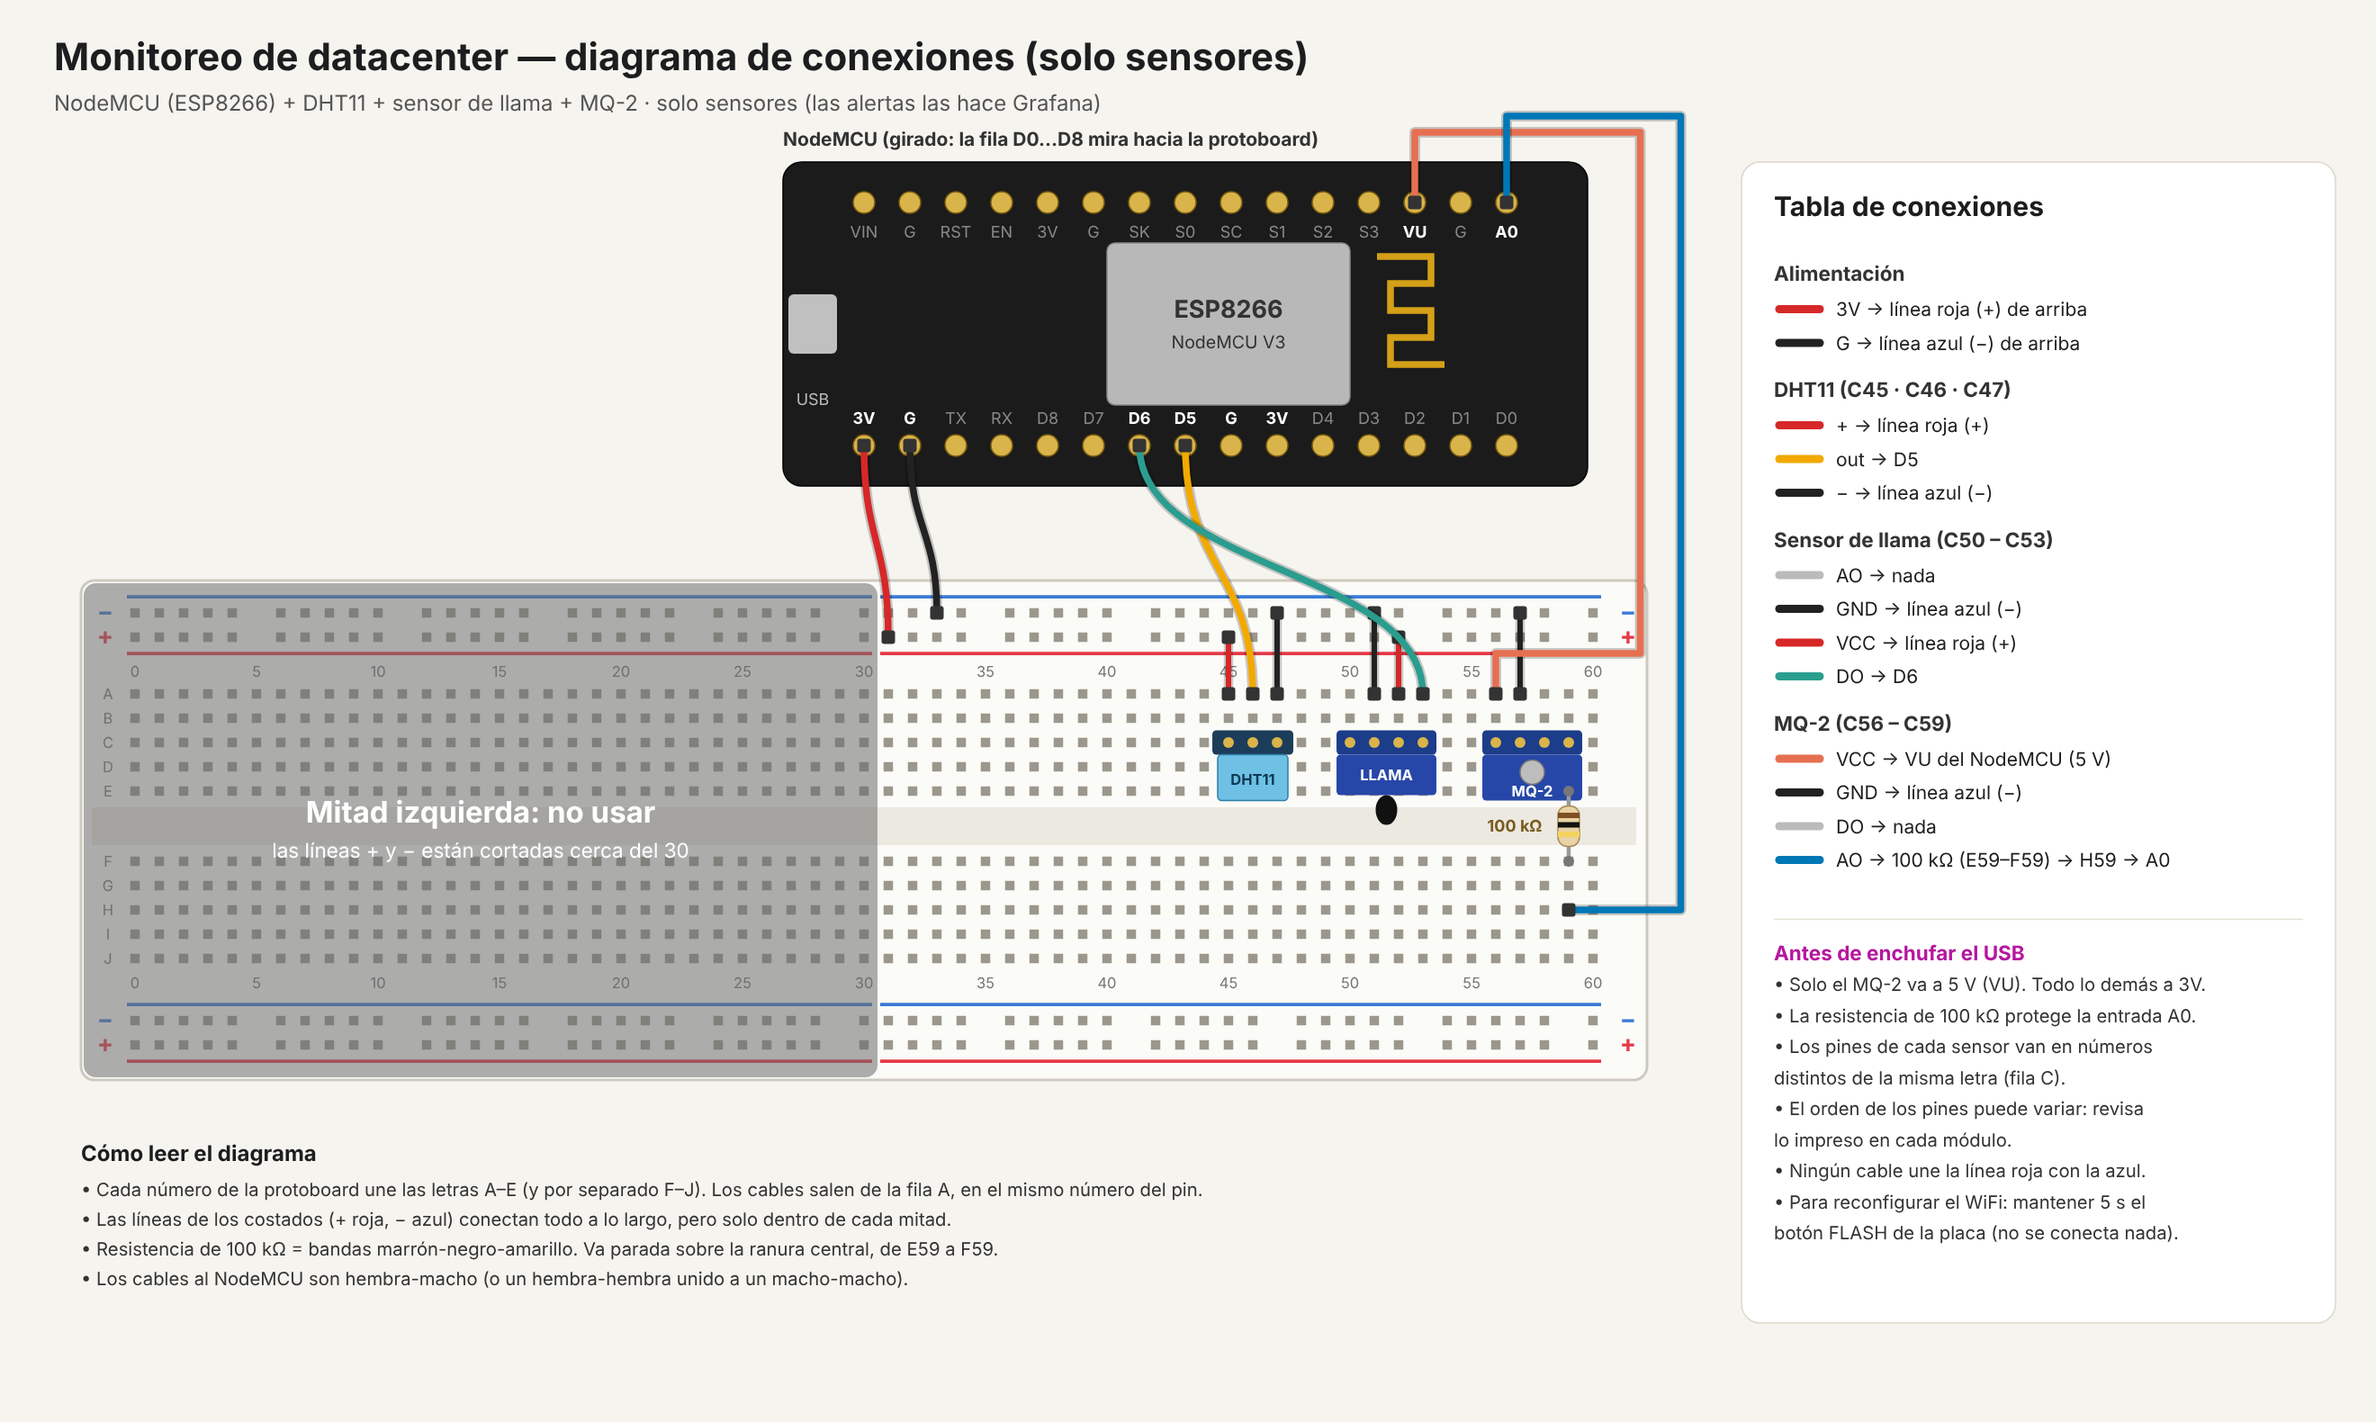
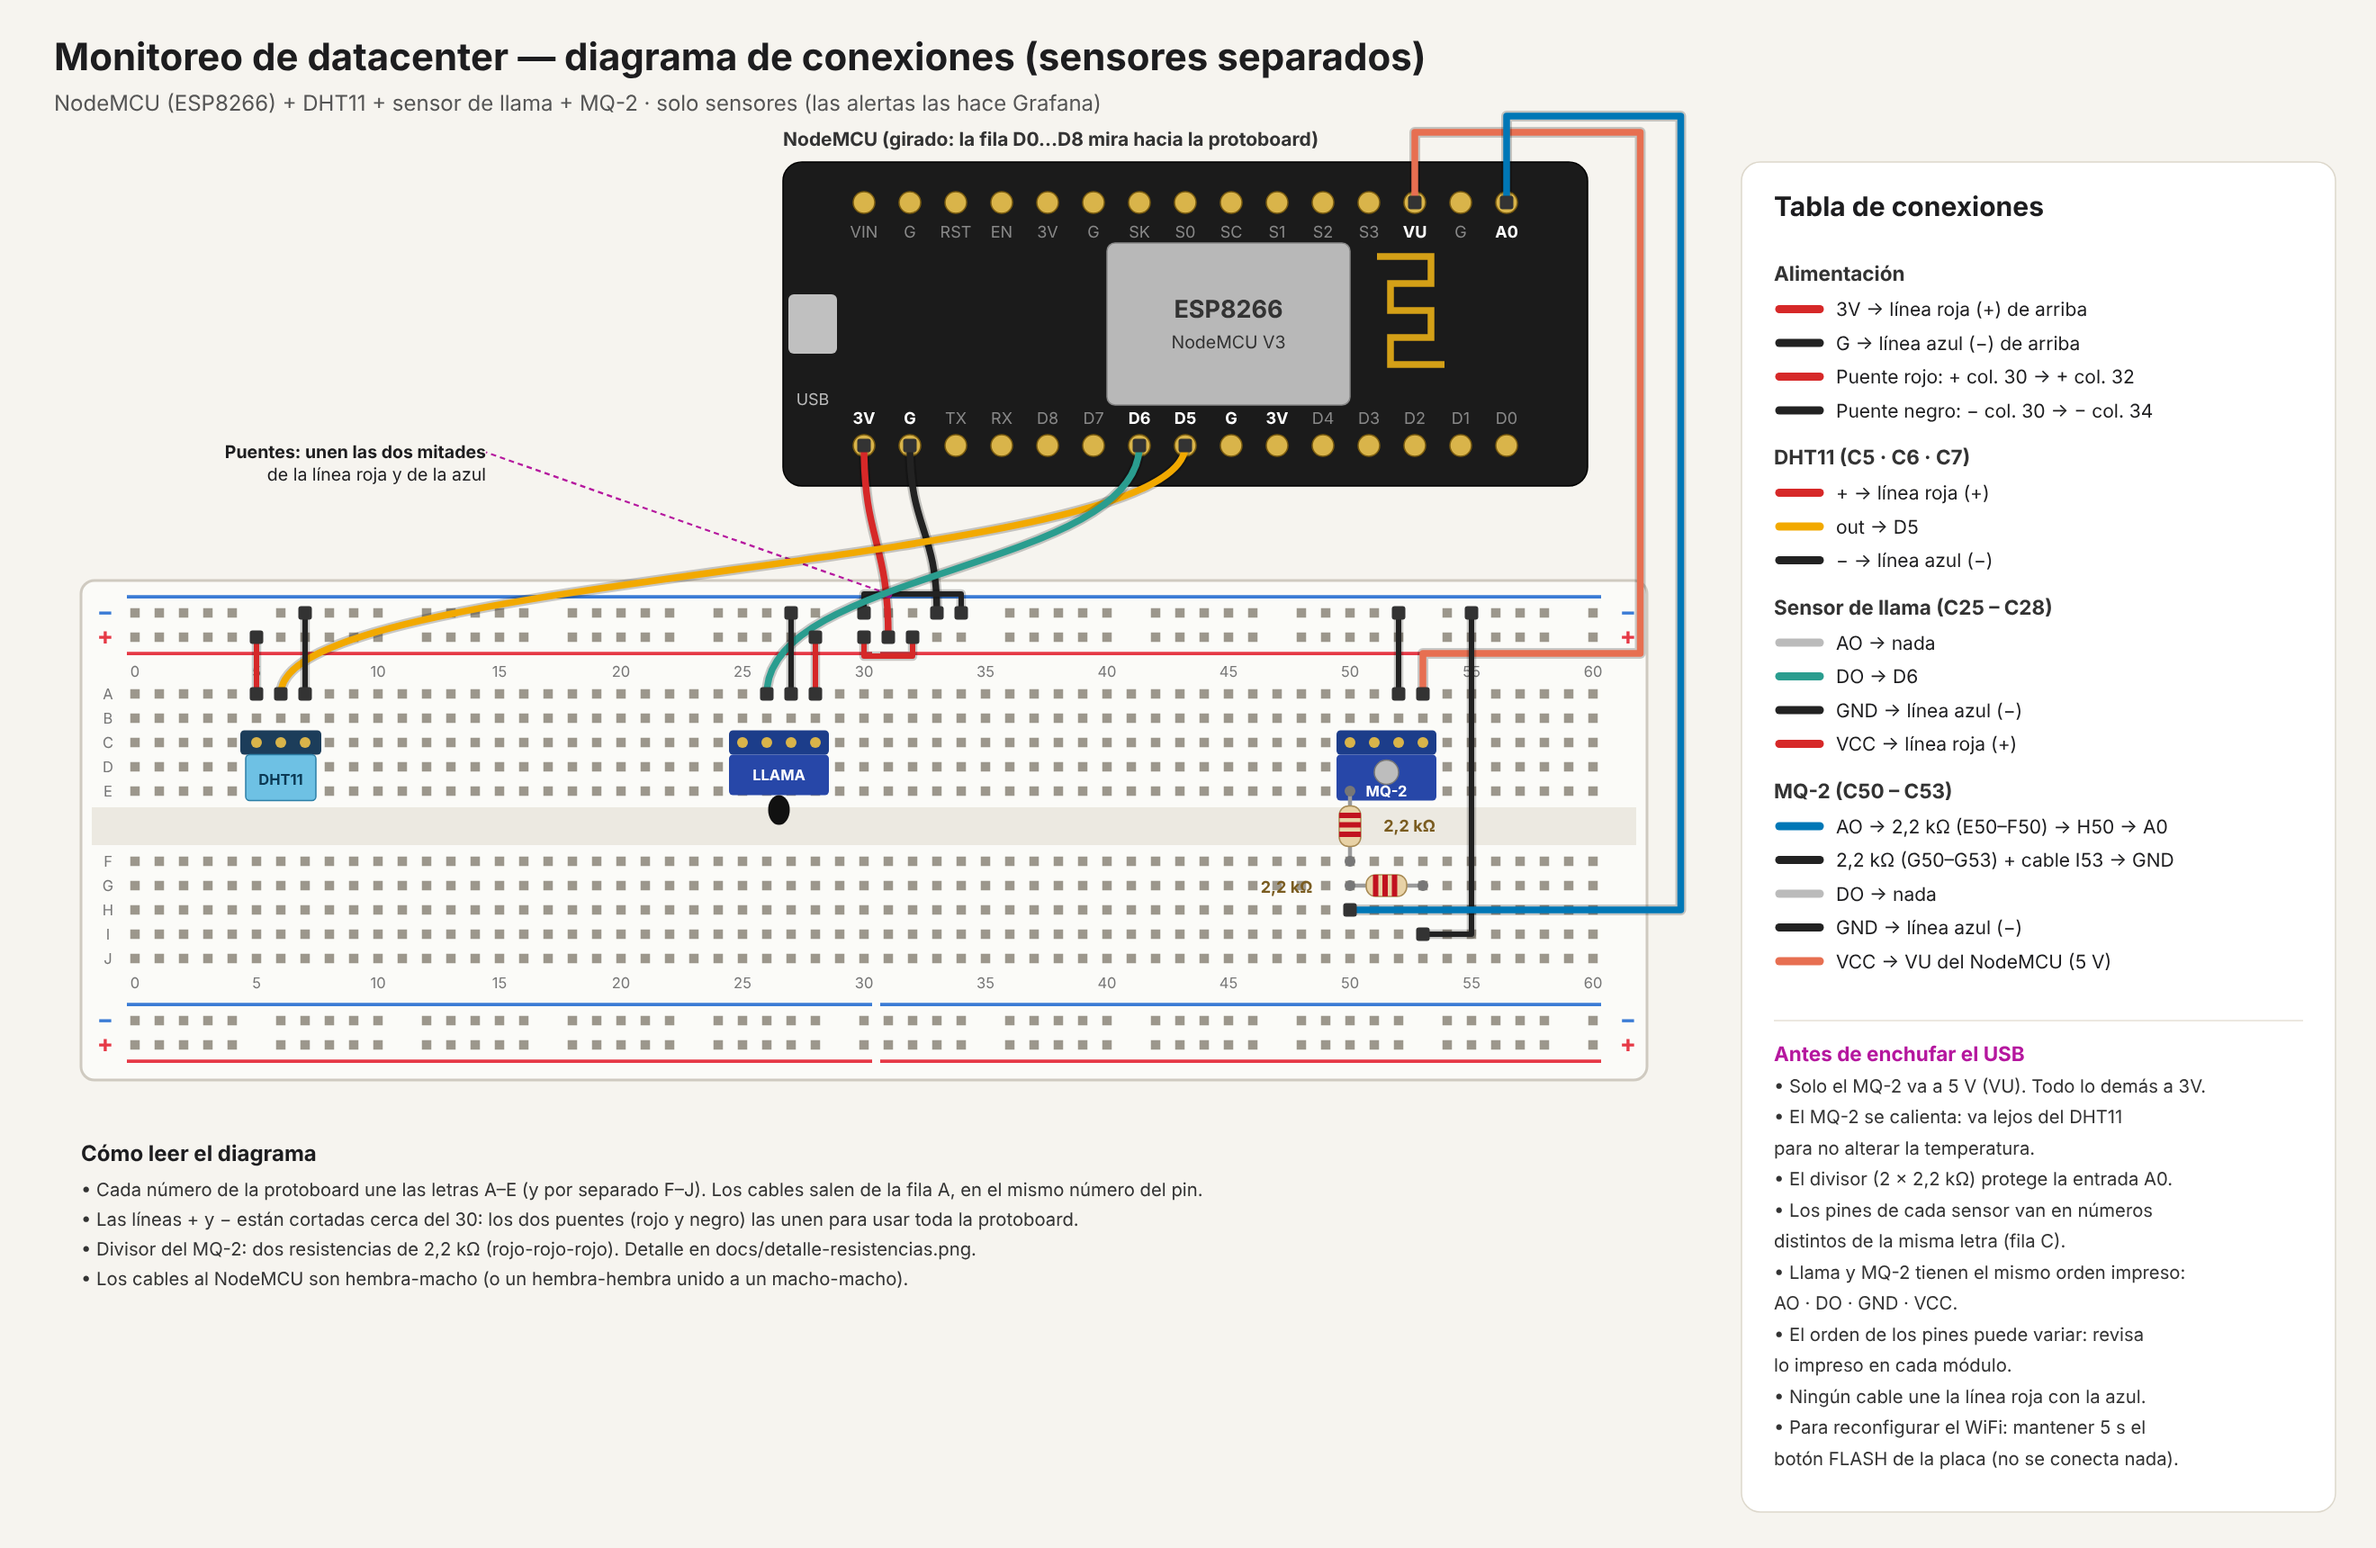
Completar proyecto: .env.example, .gitignore, divisor del MQ-2 y orden de pines corregido
- Agrega .env.example y .gitignore (no se subieron por la web)
- README y diagrama con el armado final: sensores separados, puentes
  entre mitades y divisor 2 x 2,2 kOhm para el MQ-2
- Corrige el orden de pines del sensor de llama y del MQ-2 (AO, DO, GND, VCC)
- simular.sh con permiso de ejecución

Claude-Session: https://claude.ai/code/session_01AaQspSxJ6PBZKZ4kUrNMzB

diff --git a/README.md b/README.md
@@ -97,27 +97,41 @@ docker compose exec postgres psql -U iot -d iot -c \
 
 ## 3. Armar el dispositivo
 
-Diagrama completo: `docs/diagrama-sensores.png`.
+Diagramas: `docs/diagrama-sensores.png` (conexiones) y `docs/detalle-resistencias.png` (divisor del MQ-2).
 
-**Materiales:** NodeMCU, DHT11, MQ-2, sensor de llama, 1 resistencia de 100 kΩ (marrón-negro-amarillo), protoboard y cables. El Arduino Uno no se usa porque no tiene WiFi.
+**Materiales:** NodeMCU, DHT11, MQ-2, sensor de llama, 2 resistencias **iguales** de 2,2 kΩ (rojo-rojo-rojo), protoboard y cables. El Arduino Uno no se usa porque no tiene WiFi.
 
 > **Importante:** el NodeMCU trabaja a **3,3 V**. El DHT11 y el sensor de llama se alimentan desde **3V**; solo el MQ-2 va a 5 V (**VU**).
 
-El NodeMCU va **fuera de la protoboard** (es muy ancho y la taparía entera), conectado con cables hembra-macho. Usen solo la **mitad derecha** de la protoboard (números 31 a 60): las líneas + y − están cortadas cerca del 30.
+- El NodeMCU va **fuera de la protoboard** (es muy ancho y la taparía entera), conectado con cables hembra-macho.
+- Las líneas + y − de la protoboard están cortadas cerca del 30: dos **puentes** (rojo + con +, negro − con −) unen ambas mitades para usar toda la protoboard.
+- Los sensores van **separados**: el MQ-2 se calienta y, pegado al DHT11, altera la temperatura. El MQ-2 puede ir fuera de la protoboard con cables hembra-macho.
 
 | Componente | Pin del componente | Conexión |
 |---|---|---|
 | **NodeMCU** | 3V / G | línea **roja (+)** / línea **azul (−)** |
-| **DHT11** (C45–C47) | + / out / − | línea roja / **D5** / línea azul |
-| **Sensor de llama** (C50–C53) | AO / GND / VCC / DO | nada / línea azul / línea roja / **D6** |
-| **MQ-2** (C56–C59) | VCC / GND / DO | **VU** del NodeMCU / línea azul / nada |
-| **MQ-2** | AO | **resistencia 100 kΩ (E59→F59)**, y de **H59** a **A0** |
+| **Puentes** | + col. 30 → + col. 32 · − col. 30 → − col. 34 | unen las dos mitades |
+| **DHT11** (C5–C7) | + / out / − | línea roja / **D5** / línea azul |
+| **Sensor de llama** (C25–C28) | AO / DO / GND / VCC | nada / **D6** / línea azul / línea roja |
+| **MQ-2** (C50–C53 o fuera) | AO / DO / GND / VCC | **divisor de voltaje → A0** / nada / línea azul / **VU** del NodeMCU |
+
+**Divisor de voltaje del MQ-2** (la salida AO llega a casi 5 V y A0 acepta hasta 3,2 V):
+
+```
+AO del MQ-2 ── resistencia 2,2 kΩ ──┬── A0 del NodeMCU
+                                    │
+                             resistencia 2,2 kΩ
+                                    │
+                                   GND
+```
+
+Con dos resistencias iguales, a A0 llega la mitad del voltaje (máximo 2,5 V).
 
 Notas:
 
 - Los pines de cada sensor van en la **misma letra** y en **números seguidos** (cada pin en su propio número). Los cables salen de la fila A del mismo número.
-- **Resistencia de 100 kΩ en AO:** la salida del MQ-2 puede llegar a casi 5 V y A0 acepta hasta 3,2 V.
-- El orden de los pines puede variar entre módulos: guíense por lo impreso en cada uno.
+- El sensor de llama y el MQ-2 tienen el mismo orden impreso: **AO · DO · GND · VCC**. El DHT11: **+ · out · −**. Si su módulo es distinto, guíense por lo impreso.
+- Las patas de las resistencias no deben tocarse entre sí ni tocar otras patas.
 
 ## 4. Cargar el firmware
 
@@ -196,7 +210,7 @@ También sirve **Email** (requiere configurar SMTP en Grafana) o **Webhook**.
 
 ## 8. Calibración
 
-- **MQ-2:** déjenlo encendido unos minutos. Anoten el valor de `Gas` en aire limpio y con gas de encendedor **sin prender**. Pongan ese valor intermedio en `GAS_AVISO` del firmware, en la regla "Gas o humo" de `alertas.yml` y en el umbral del dashboard.
+- **MQ-2:** con el divisor, en aire limpio debería marcar entre 30 y 300 aprox. Déjenlo encendido unos minutos. Anoten el valor de `Gas` en aire limpio y con gas de encendedor **sin prender**. Pongan ese valor intermedio en `GAS_AVISO` del firmware, en la regla "Gas o humo" de `alertas.yml` y en el umbral del dashboard.
 - **Sensor de llama:** giren el potenciómetro azul hasta que el LED del módulo se apague sin llama y se prenda con un encendedor a 20–30 cm. Si el Monitor Serie dice `Llama: SI` sin fuego, cambien `FLAMA_DETECTADA` a `HIGH`.
 
 Prueben con fuego y gas solo en pequeñas cantidades, lejos de papeles y con supervisión.
@@ -208,7 +222,8 @@ Prueben con fuego y gas solo en pequeñas cantidades, lejos de papeles y con sup
 | `error de conexión: connection refused` | IP o puerto del servidor; Security Group / firewall; `docker compose ps` |
 | `403 sensor no registrado` | El nombre del sensor o cliente del portal no está en la tabla `sensores` |
 | `DHT11: error de lectura` | Cable S en D5 y alimentación en 3V3 |
-| Gas siempre en 1023 | Falta la resistencia en AO, o el MQ-2 recién encendido (esperar) |
+| Gas siempre en 0 | La resistencia de arriba del divisor no toca el cable AO, o A0 quedó unido a GND |
+| Gas cerca de 1023 | La resistencia de abajo del divisor no llega a GND: no acercar gas hasta corregirlo |
 | El WiFi se corta | Fuente USB débil: el MQ-2 consume ~150 mA; usen otro cable o puerto |
 | Grafana sin datos | Elegir cliente y sensor arriba; rango "Last 1 hour"; `docker compose logs api` |
 | No aparece la red SENSOR-XXXX | Mantengan el botón FLASH 5 s para borrar la configuración |
